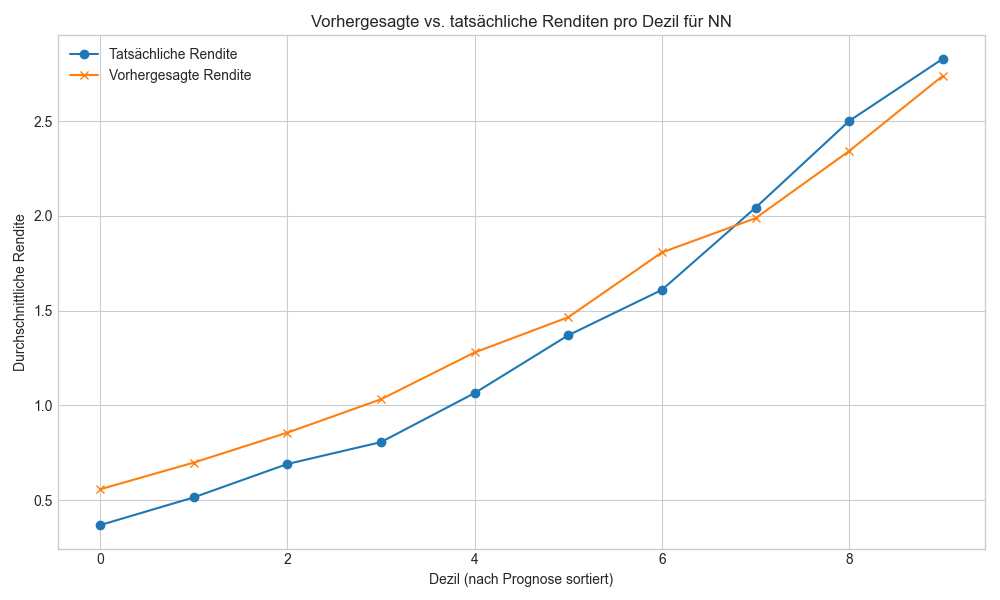
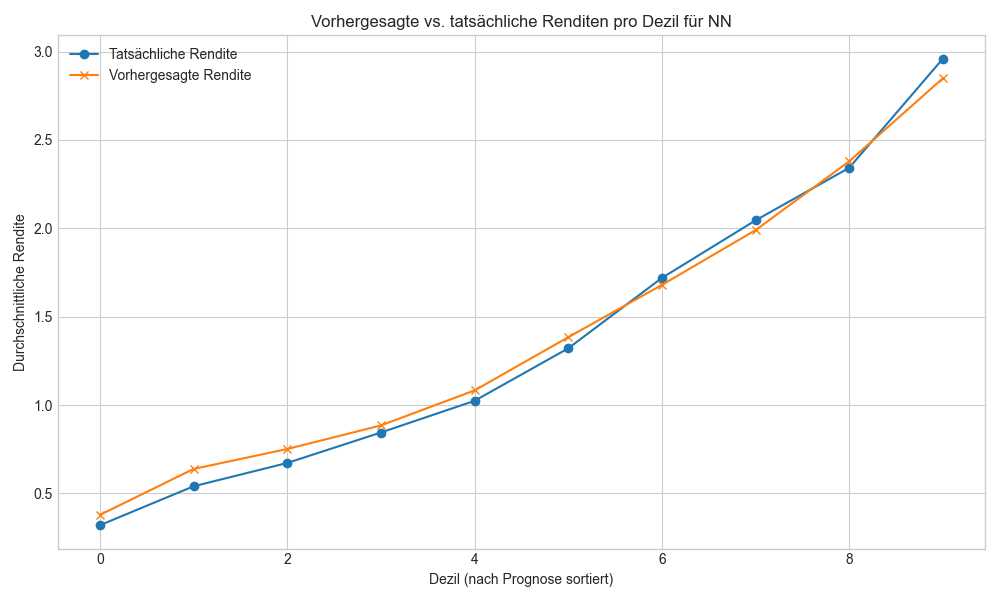
commit

diff --git a/ML_ProblemSet_Student.py b/ML_ProblemSet_Student.py
@@ -361,35 +361,39 @@ for name in list(prediction.keys()):
 # -------------------------------
 
 
+ols_models = ["OLS", "Weighted OLS", "Huber", "ElasticNet", "PCR", "PLS", "GLM", "NN", "GBR", "RF"]
+
+
 tut_pred = predict_all_models(X_full)
 
-ols_tut_pred = tut_pred['OLS']
+for model in ols_models:
+    model_tut_pred = tut_pred[model]
 
-ols_tut_pred_reshape = ols_tut_pred.reshape(n_stocks, n_months)
-y_reshape = Y_full.reshape(n_stocks, n_months)
-
-
-def plot_ols_preds_per_stock(y_reshape, ols_tut_pred_reshape, n_stocks=10):
-    n_cols = 2
-    n_rows = int(np.ceil(n_stocks / n_cols))
-
-    fig, axes = plt.subplots(n_rows, n_cols, figsize=(12, 4 * n_rows), sharex=True, sharey=True)
-    axes = axes.flatten()
-
-    for i in range(n_stocks):
-        ax = axes[i]
-        ax.plot(y_reshape[i], label='Actual', color='blue', marker='o')
-        ax.plot(ols_tut_pred_reshape[i], label='OLS Predicted', color='red', linestyle='--', marker='x')
-        ax.set_title(f'Stock {i+1}')
-        ax.set_xlabel('Months')
-        ax.set_ylabel('Returns')
-        ax.legend()
-        ax.grid(False)
-    for j in range(n_stocks, len(axes)):
-        axes[j].axis('off')
-
-    plt.tight_layout()
-    plt.savefig("images/ols_preds_all_stocks.png")
+    ols_tut_pred_reshape = model_tut_pred.reshape(n_stocks, n_months)
+    y_reshape = Y_full.reshape(n_stocks, n_months)
 
 
-plot_ols_preds_per_stock(y_reshape, ols_tut_pred_reshape, n_stocks=n_stocks)
+    def plot_ols_preds_per_stock(y_reshape, ols_tut_pred_reshape, n_stocks=10):
+        n_cols = 2
+        n_rows = int(np.ceil(n_stocks / n_cols))
+
+        fig, axes = plt.subplots(n_rows, n_cols, figsize=(12, 4 * n_rows), sharex=True, sharey=True)
+        axes = axes.flatten()
+
+        for i in range(n_stocks):
+            ax = axes[i]
+            ax.plot(y_reshape[i], label='Actual', color='blue', marker='o')
+            ax.plot(ols_tut_pred_reshape[i], label=f"{model} Predicted", color='red', linestyle='--', marker='x')
+            ax.set_title(f'Stock {i+1}')
+            ax.set_xlabel('Months')
+            ax.set_ylabel('Returns')
+            ax.legend()
+            ax.grid(False)
+        for j in range(n_stocks, len(axes)):
+            axes[j].axis('off')
+
+        plt.tight_layout()
+        plt.savefig(f"images/prediction/{model}_preds_all_stocks.png")
+
+
+    plot_ols_preds_per_stock(y_reshape, ols_tut_pred_reshape, n_stocks=n_stocks)
